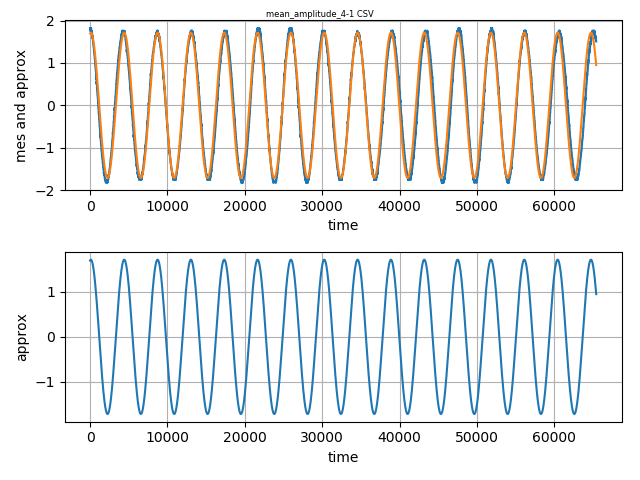
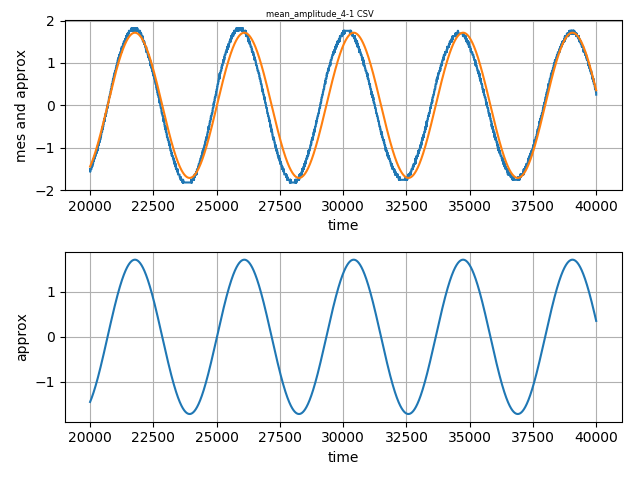
repair phi0 finding

Changed region(s): [[0.125, 0.5312, 0.9688, 0.9375], [0.0938, 0.0312, 0.9688, 0.4375], [0.0938, 0.875, 0.1875, 0.9375]]

diff --git a/src/driveSinus.py b/src/driveSinus.py
@@ -4,6 +4,7 @@ import numpy as np
 import matplotlib.pyplot as plt
 
 
+
 def getLst(lst, coeffs):
     newLst = []
     for i in range(len(lst)):
@@ -33,18 +34,24 @@ def wrtePlot(t, sinusLst, newSinusLst, path, caption):
 def findSinusCoeffs(lst):
     prevL = lst[0]
 
+    amp0 = max(lst)
+
     flgDrop = False
     zerosLst = []
+    findedZero = -1
+
     for i in range(len(lst)):
         if (abs(lst[i]) < 0.05):
             if not flgDrop:
-                zerosLst.append(i)
+                findedZero = i
                 flgDrop = True
-        else:
+        if (abs(amp0-abs(lst[i]))<0.2):
             flgDrop = False
+            if findedZero!=-1:
+                zerosLst.append(int((i+findedZero)/2))
+                findedZero = -1
 
-    # find phi0
-    phi0 = zerosLst[0] - np.pi / 2
+
 
     periodsLst = []
     for i in range(len(zerosLst) - 1):
@@ -56,7 +63,14 @@ def findSinusCoeffs(lst):
         periodSum += period
 
     meanPeriod = periodSum / len(periodsLst)
+
+
     omega0 = 1 / meanPeriod
+
+    # find phi0
+    print(zerosLst[0]/ meanPeriod*np.pi)
+    #phi0 = zerosLst[0]/ meanPeriod*np.pi
+    phi0 = zerosLst[0]+np.pi/2
 
     amps = []
 
@@ -67,23 +81,21 @@ def findSinusCoeffs(lst):
 
     meanAmps = []
 
-
-
     for l in lst:
         if (l > 0 and amp0 - l < 0.2):
             state = "positive"
-           # print("make pos")
+            # print("make pos")
             break
         if (l < 0 and -amp0 - l > -0.2):
             state = "negative"
-           # print("make neg")
+            # print("make neg")
             break
 
     for l in lst:
         if (l > 0 and amp0 - l < 0.2):
             if state == "negative" and len(amps) > 0:
                 meanAmps.append(np.mean(amps))
-              #  print("loop mean ", np.mean(amps))
+                #  print("loop mean ", np.mean(amps))
                 amps.clear()
             if l > prevL:
                 flgAddAmp = True
@@ -96,10 +108,10 @@ def findSinusCoeffs(lst):
         if (l < 0 and -amp0 - l > -0.2):
             if state == "positive" and len(amps) > 0:
                 meanAmps.append(np.mean(amps))
-             #   print("loop mean ", np.mean(amps))
+                #   print("loop mean ", np.mean(amps))
                 amps.clear()
 
-          #  print("negative")
+            #  print("negative")
             if l < prevL:
                 flgAddAmp = True
             else:
@@ -116,8 +128,6 @@ def findSinusCoeffs(lst):
     amp0 = np.mean(meanAmps)
     # find frequency
     print("mamp ", amp0)
-
-
 
     return [amp0, omega0, phi0]
 
@@ -167,12 +177,37 @@ def getMeanAmp(sourse):
     return [t, sinusLst, newSinusLst]
 
 
+def getSQD(sourse, start, end):
+    sinusLst = readLstFromFile(sourse)[start:end]
+    # sinusLst = sinusLst[:10000]
+
+    coeffs = findSinusCoeffs(sinusLst)
+    # newSinusLst = getLst(lst, coeffs)
+    newSinusLst = preciseFind(sinusLst, coeffs)
+
+    t = np.arange(start, end)
+
+    return [t, sinusLst, newSinusLst]
+
+
+def getMeanAmp(sourse, start, end):
+    sinusLst = readLstFromFile(sourse)[start:end]
+    # sinusLst = sinusLst[:10000]
+
+    coeffs = findSinusCoeffs(sinusLst)
+    newSinusLst = getLst(sinusLst, coeffs)
+
+    t = np.arange(start, end)
+
+    return [t, sinusLst, newSinusLst]
+
+
 def preciseFind(lst, coeffs):
     preciseCoeffs = []
     minDist = -1
     for amp in np.arange(coeffs[0] * 0.8, coeffs[0] * 1.2, coeffs[0] * 0.05):
         # print("loop amp: ",amp)
-        for omega in np.arange(coeffs[1] * 0.8, coeffs[1] * 1.2, coeffs[1] * 0.05):
+        for omega in np.arange(coeffs[1] * 0.8, coeffs[1] * 1.4, coeffs[1] * 0.05):
             for phi in np.arange(coeffs[2] - np.pi / 40, coeffs[2] + np.pi / 40, np.pi / 80):
                 newCoeffs = [amp, omega, phi]
 
@@ -191,4 +226,3 @@ def preciseFind(lst, coeffs):
 
     print("preciseCoeffs: ", preciseCoeffs)
     return getLst(lst, preciseCoeffs)
-

diff --git a/src/test.py b/src/test.py
@@ -2,13 +2,13 @@ from src.driveSinus import getSQD, wrtePlot, getMeanAmp
 
 
 def getResult(source):
-    res = getSQD('../drive_data/' + source + '.csv')
+    res = getSQD('../drive_data/' + source + '.csv', 20000, 40000)
     wrtePlot(res[0], res[1], res[2], '../imgs/sqd_' + source + '.png', "sqd_" + source)
-    res = getMeanAmp('../drive_data/' + source + '.csv')
+    res = getMeanAmp('../drive_data/' + source + '.csv', 20000, 40000)
     wrtePlot(res[0], res[1], res[2], '../imgs/mean_amplitude_' + source + '.png', "mean_amplitude_" + source)
 
 
 getResult("4-1 CSV")
-getResult("4-2 CSV")
-getResult("5 2 csv")
-getResult("6")
+# getResult("4-2 CSV")
+# getResult("5 2 csv")
+# getResult("6")
